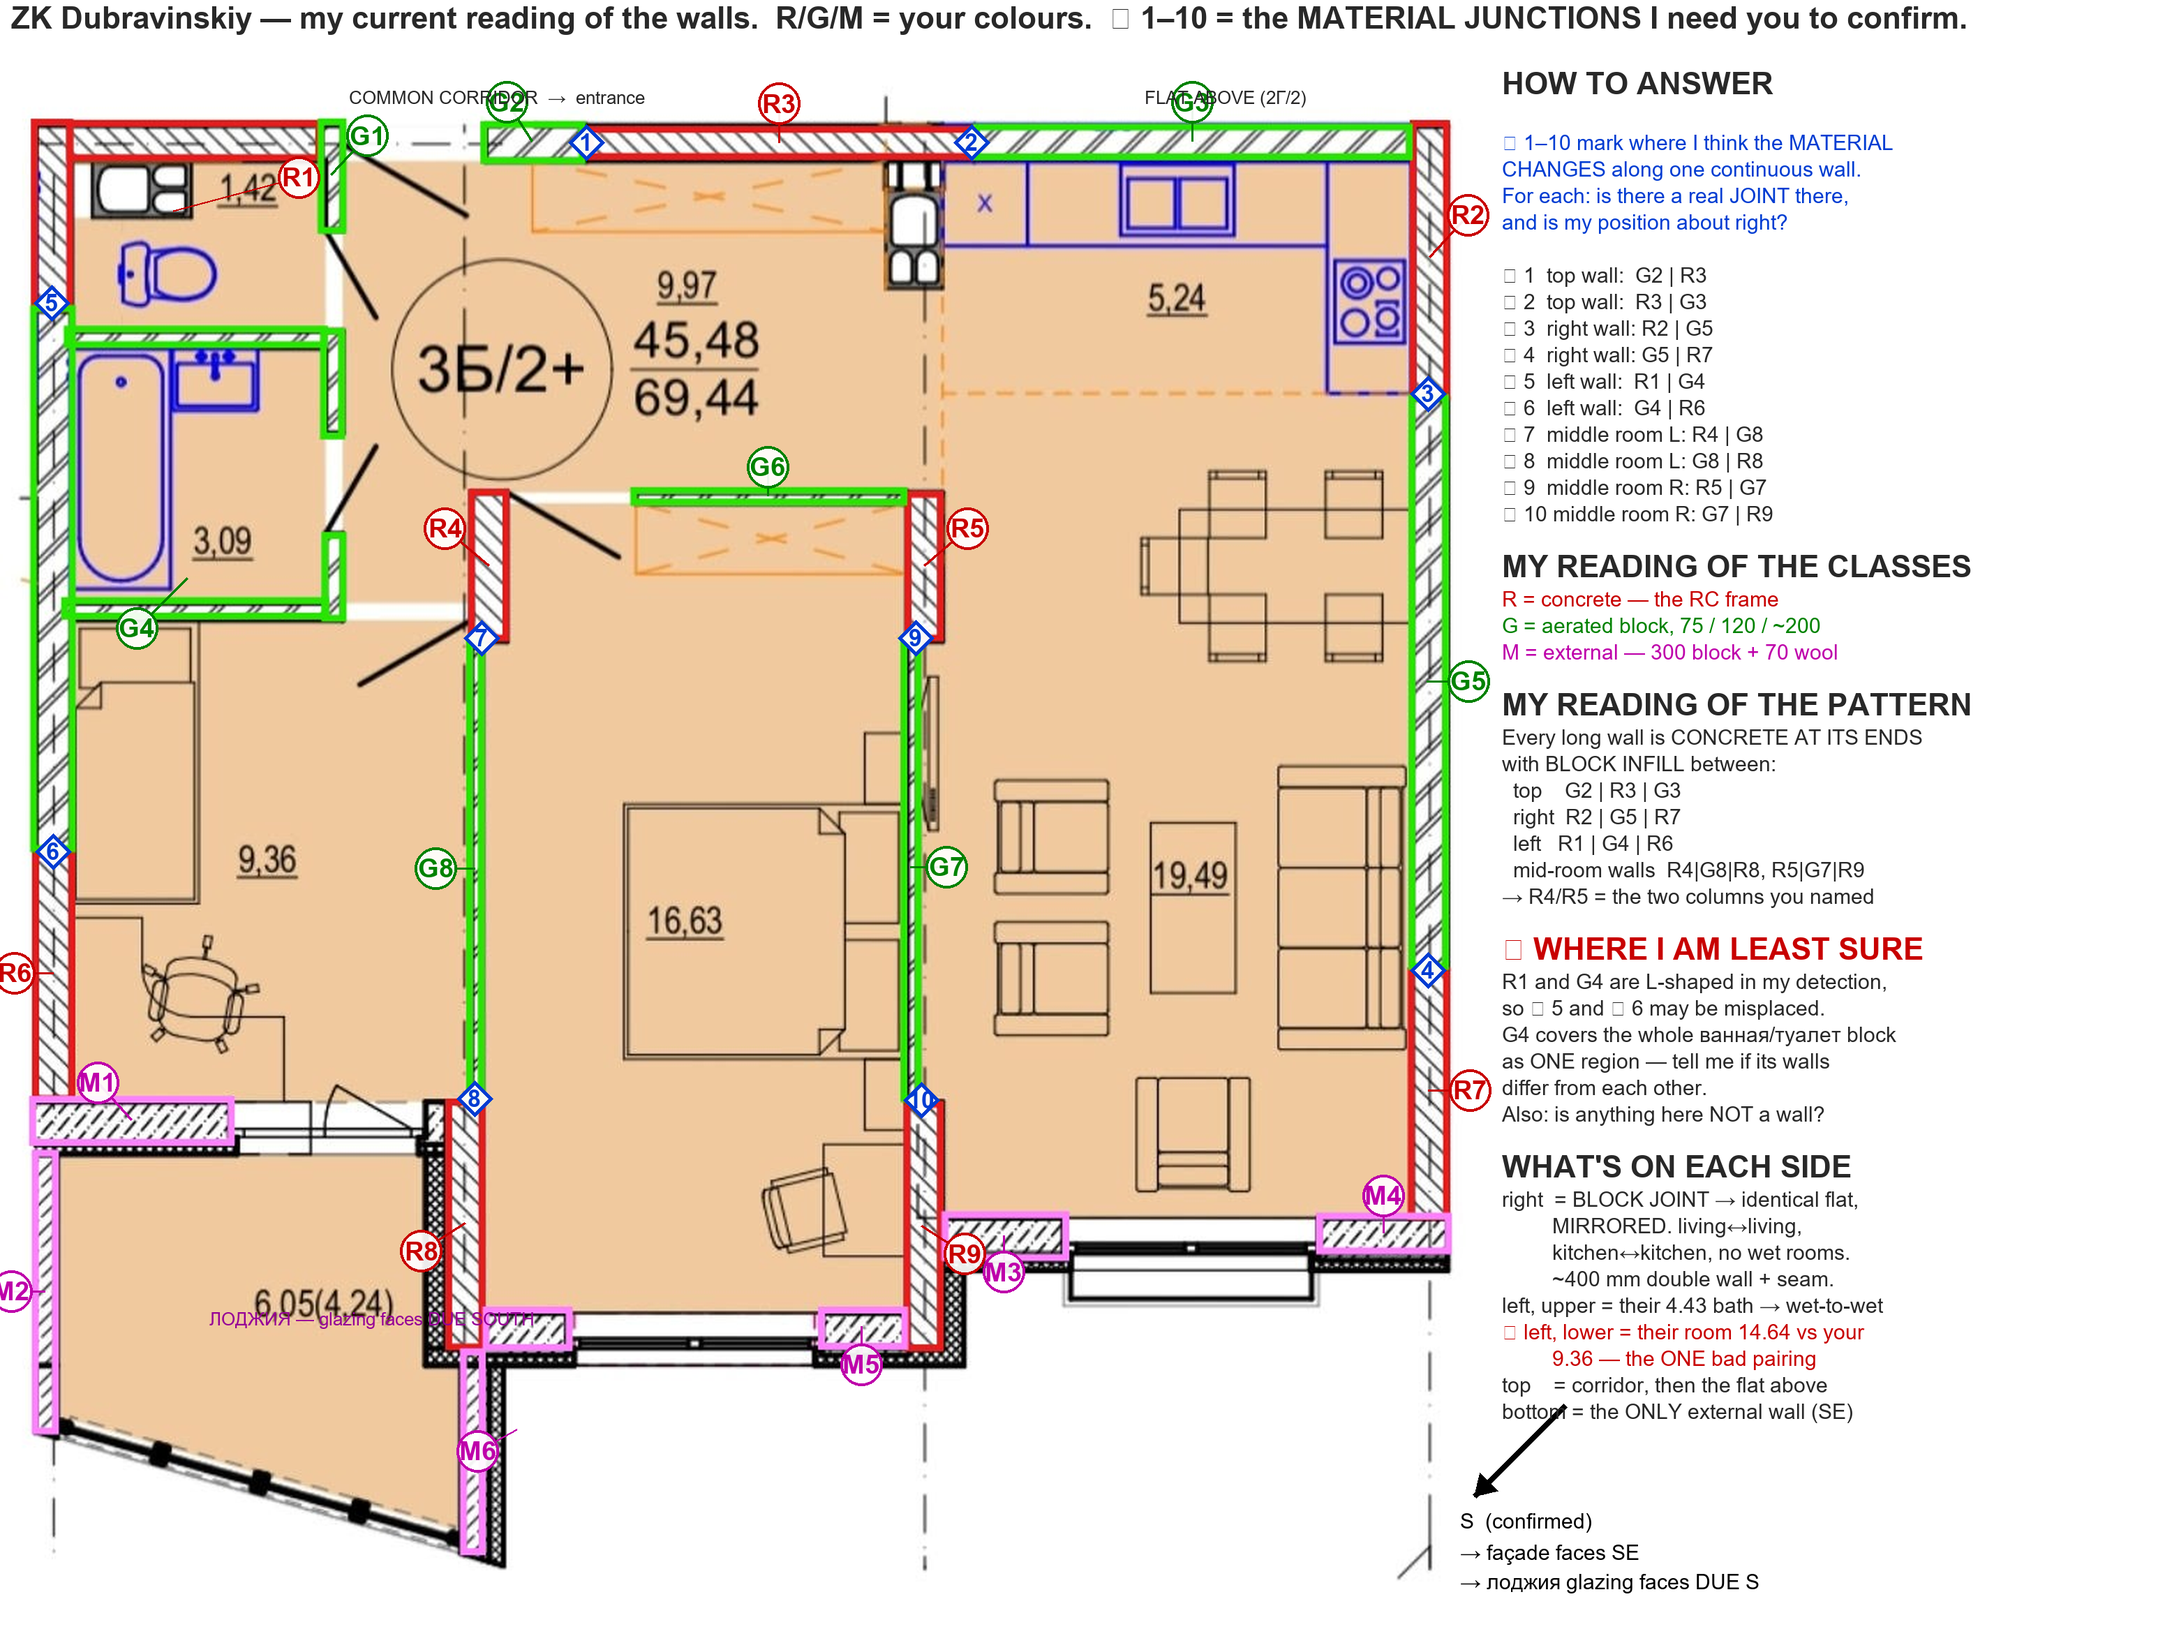
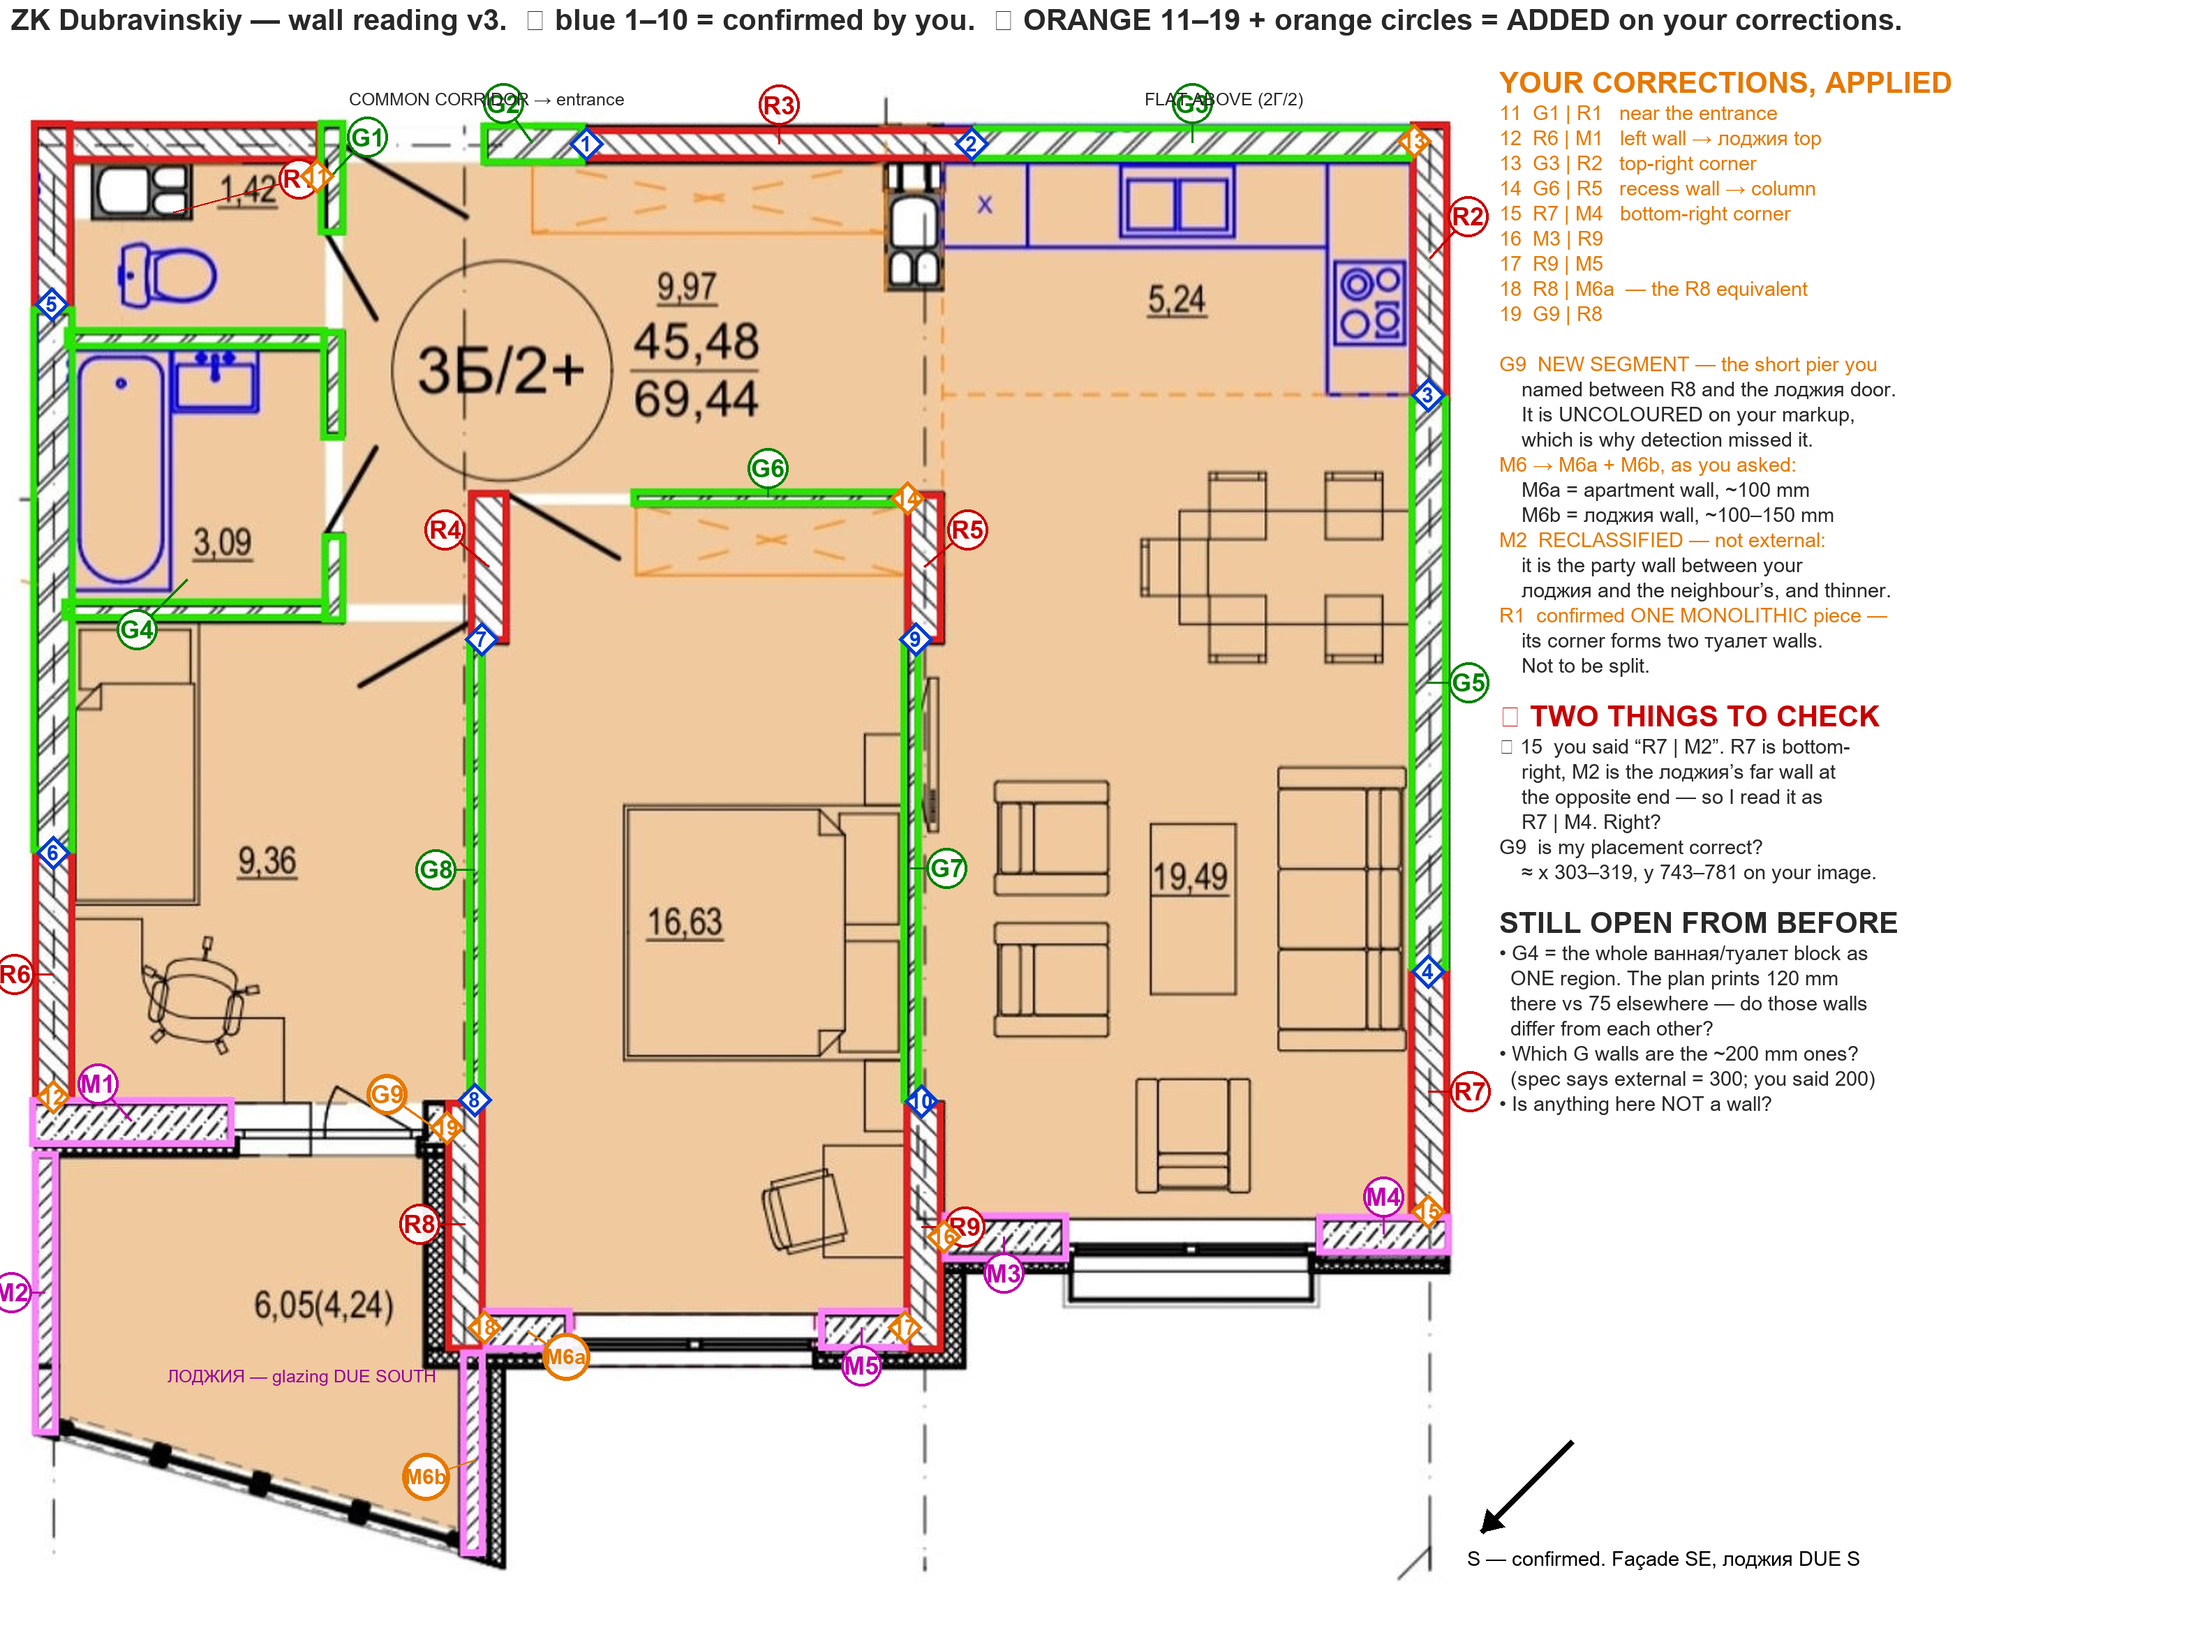
Owner's junction review: nine junctions added, one segment missed - and that answers exhaustiveness
Classes confirmed - "your reading is correct. Red is concrete" - and the south
orientation confirmed. Wall reading key rebuilt as v3, with my ten junctions in
blue and his nine additions in orange so the delta is legible.

Nine junctions I had missed: G1|R1 near the entrance, R6|M1, G3|R2 at the
top-right corner, G6|R5, R7|M4 at the bottom-right, M3|R9, R9|M5, R8|M6a, and
G9|R8. On the fifth of those he said "R7|M2" - M2 is the loggia wall at the
opposite end of the flat, so it is read as M4, the only wall R7 actually meets,
and flagged for confirmation rather than silently corrected.

AND A MISSED SEGMENT, which matters more than the junctions. G9 is a short
aerated-block pier between the loggia door unit and R8. No colour detector could
have found it because it is UNCOLOURED on the markup, and it is also below the
detection threshold - located visually instead at approximately x 303-319,
y 743-781, position pending confirmation.

That is the answer to "is the marking exhaustive?", and it is not the answer
that was given. He said "I marked all the walls" in good faith and one pier was
missed. So an owner markup is EVIDENCE, not a complete inventory, and "unmarked"
must keep meaning UNKNOWN rather than ABSENT. That distinction was recorded
earlier as a precaution and is now vindicated by a real case, so it stays.

Segment changes on his instruction: M6 split into M6a, the apartment's own wall
at ~100 mm, and M6b, the loggia wall at ~100-150 mm - which is which is my
[…]

diff --git a/_Inbox/planning/concrete_wall_marking_20260904.md b/_Inbox/planning/concrete_wall_marking_20260904.md
@@ -158,6 +158,58 @@ answer precisely. That is it.** Built on his own three-colour markup so his colo
 | 9 | middle room, right wall | R5 → G7 |
 | 10 | middle room, right wall | G7 → R9 |
 
+### ✅ OWNER REVIEW, 2026-09-04 — classes confirmed, NINE junctions added, one segment missed
+
+**Confirmed:** *"your reading is correct. Red is concrete."* Orientation (south) confirmed too.
+
+**Nine junctions I had missed:**
+
+| ◇ | junction | note |
+| :--- | :--- | :--- |
+| 11 | **G1 \| R1** | near the entrance |
+| 12 | **R6 \| M1** | left wall meets the лоджия top wall |
+| 13 | **G3 \| R2** | top-right corner |
+| 14 | **G6 \| R5** | the recess top wall meets the column |
+| 15 | **R7 \| M4** | bottom-right corner. ⚠ *He said “R7 \| M2”; M2 is the лоджия wall at the opposite end of the flat, so this is read as **M4** — flagged, not silently corrected* |
+| 16 | **M3 \| R9** | |
+| 17 | **R9 \| M5** | |
+| 18 | **R8 \| M6a** | the R8-side equivalent — *“and so with R8 as well”* |
+| 19 | **G9 \| R8** | see the new segment below |
+
+### ⚠⚠⚠ A MISSED SEGMENT — and it answers the exhaustiveness question the wrong way
+
+**`G9`: a short aerated-block pier between the лоджия door/window unit and R8.** Owner: *“I forgot the
+small piece between R8 and the entrance to the лоджия… It's very, very short, but it's actually there.”*
+
+- **Why no detector could have found it: IT IS UNCOLOURED on the markup** — and it is also below the 120 px
+  area threshold. **Located visually instead, at approximately x 303–319, y 743–781. Position needs confirming.**
+- → **⚠⚠ AND THIS IS THE ANSWER TO “IS THE MARKING EXHAUSTIVE?” — it is NOT the answer that was given.**
+  He said *“I marked all the walls”*, in good faith, **and one pier was missed.** → **An owner markup is
+  EVIDENCE, not a complete inventory, and “unmarked” must keep meaning UNKNOWN rather than ABSENT.** That
+  distinction was recorded earlier as a precaution; **it has now been vindicated by a real case, so it stays.**
+
+### Segment changes on his instruction
+
+- **`M6` → `M6a` + `M6b`.** **M6a = the apartment's own wall, ~100 mm; M6b = the лоджия wall, ~100–150 mm.**
+  ⚠ *Which is which is MY reading from the geometry — horizontal = apartment, vertical = лоджия — not his
+  statement.* ⚠ **Both are far thinner than the spec's 300 mm for external walls, which makes sense only if
+  they are returns and лоджия enclosure rather than main external walls** — the лоджия is outside the heated
+  envelope, so its walls carry no insulation duty.
+- **`M2` RECLASSIFIED — not external.** It is **the party wall between this лоджия and the neighbour's**, and
+  thinner. → **So it separates two COLD spaces: no insulation duty, and it is an acoustic and privacy element
+  rather than a thermal one.**
+- **`R1` confirmed as ONE MONOLITHIC piece** — *“it's a monolith, and there's a corner part which actually
+  represents two walls for the water closet.”* **The L-shape is correct and must not be split.** → That also
+  resolves my own flagged doubt about junctions 5 and 6: R1 is right, so those two stand.
+
+### ✅⚠ A consequence that falls out: where the thermal boundary actually is
+
+**Because the лоджия is unheated and its own walls are thin, the real thermal boundary on that side is the
+wall and door BETWEEN the flat and the лоджия — `M1` to the 9.36 room and `R8` to the middle room.** The plan
+already draws **insulation cross-hatch on R8's лоджия face**, which corroborates it independently.
+→ **That is where the frost-free-without-heating calculation actually bites**, not at the лоджия's own
+enclosure. See `00_Master/Family_Requirements.md` §10.
+
 ### ⚠ Where I am least sure, stated on the image itself
 
 - **R1 and G4 came out L-shaped in the detection**, so **◇ 5 and ◇ 6 may be misplaced.**
